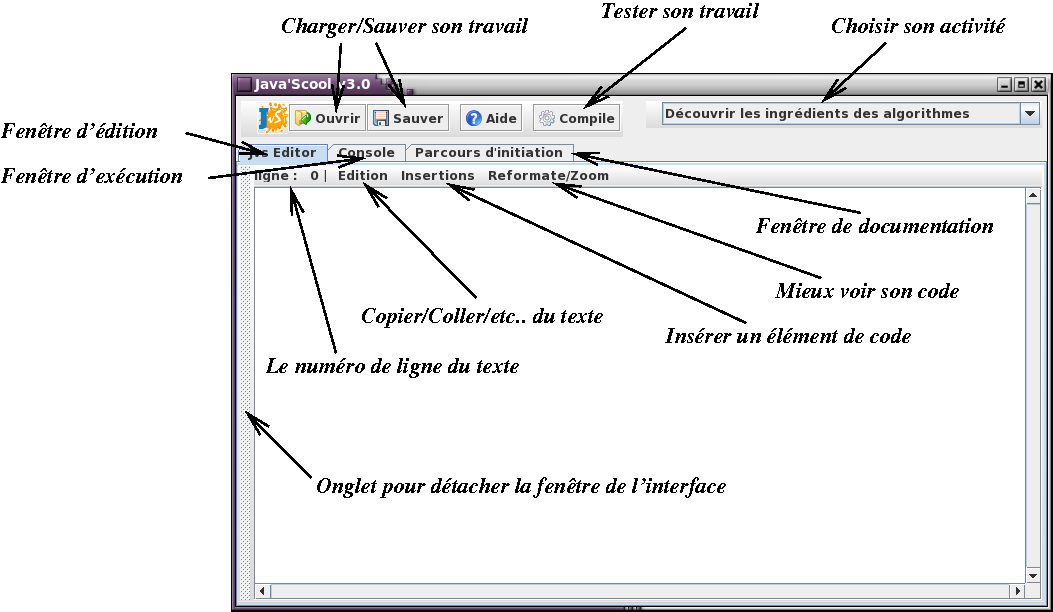
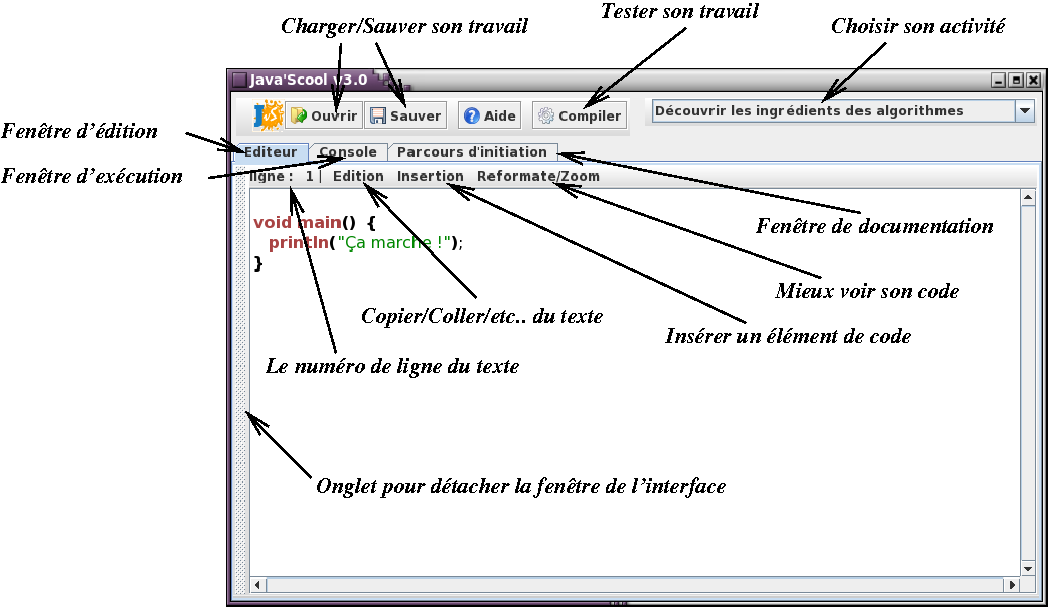
git-svn-id: https://scm.gforge.inria.fr/anonscm/svn/javascool@713 79b98d2d-744f-0410-929f-8ac7b80d50f7

diff --git a/javascool_V3/trunk/org.javascool/src/org/javascool/doc-files/revision.htm b/javascool_V3/trunk/org.javascool/src/org/javascool/doc-files/revision.htm
@@ -1,5 +1,5 @@
 
 <!DOCTYPE html
   PUBLIC "-//W3C//DTD HTML 4.01//EN" "http://www.w3.org/TR/html4/strict.dtd">
-<div align="right" class="margin"><tt>Java'Scool v3.0-beta, r&eacute;vision: <i>710</i></tt> 
+<div align="right" class="margin"><tt>Java'Scool v3.0-beta, r&eacute;vision: <i>711</i></tt> 
 </div>

diff --git a/javascool_V3/trunk/org.javascool/src/org/javascool/doc-files/about-main.htm b/javascool_V3/trunk/org.javascool/src/org/javascool/doc-files/about-main.htm
@@ -150,7 +150,7 @@
       
    </div>
      
-   <div align="right" class="margin"><tt>Java'Scool v3.0-beta, r&eacute;vision: <i>710</i></tt> 
+   <div align="right" class="margin"><tt>Java'Scool v3.0-beta, r&eacute;vision: <i>711</i></tt> 
    </div>
    
 </div>

diff --git a/javascool_V3/trunk/org.javascool/src/org/javascool/Main.java b/javascool_V3/trunk/org.javascool/src/org/javascool/Main.java
@@ -129,7 +129,7 @@ public class Main extends JApplet { /**/public Main() { }
    * @param pane Tab panel.
    */
   public void addTab(String label, JPanel pane) {
-    boolean floatable = true;
+    boolean floatable = Toolkit.getDefaultToolkit().getScreenSize().getWidth() >= 1024;
     if (floatable) {
       JToolBar bar = new JToolBar(); // bar.setBorderPainted(false); 
       bar.addComponentListener(resizer);
@@ -560,7 +560,7 @@ public class Main extends JApplet { /**/public Main() { }
     // Compilation/execution mechanism
     protected void initCompile() {
       addTab("Console", Jvs2Java.getPanel("ingredients"));
-      addTool("Compile", "org/javascool/doc-files/icones16/compile.png", validate = compile);
+      addTool("Compiler", "org/javascool/doc-files/icones16/compile.png", validate = compile);
     }
     private Runnable compile = new Runnable() { public void run() {
       delTool("Exécuter");
@@ -608,7 +608,7 @@ public class Main extends JApplet { /**/public Main() { }
     // Common panels and tools
     public void init() {
       if (jvsEditor == null) jvsEditor = new JvsSourceEditor(); 
-      addTab("Jvs Editor", (JPanel) jvsEditor);
+      addTab("Editeur", (JPanel) jvsEditor);
       jvsEditor.setProglet(proglet);
       initCompile();
       if (!"ingredients".equals(proglet)) {
@@ -630,8 +630,8 @@ public class Main extends JApplet { /**/public Main() { }
     public void init() {
       if (algoEditor == null) algoEditor = new AlgoEditor(); 
       if (algoViewer == null) { algoViewer = new JvsSourceEditor(); algoViewer.reset(false); }
-      addTab("Algo Editor", (JPanel) algoEditor);
-      addTab("Code Viewer", (JPanel) algoViewer);
+      addTab("Editeur d'Algo.", (JPanel) algoEditor);
+      addTab("Voir le code", (JPanel) algoViewer);
       initCompile();
       addTab("Tracé", Jvs2Java.getPanel("exosdemaths"));
     }
